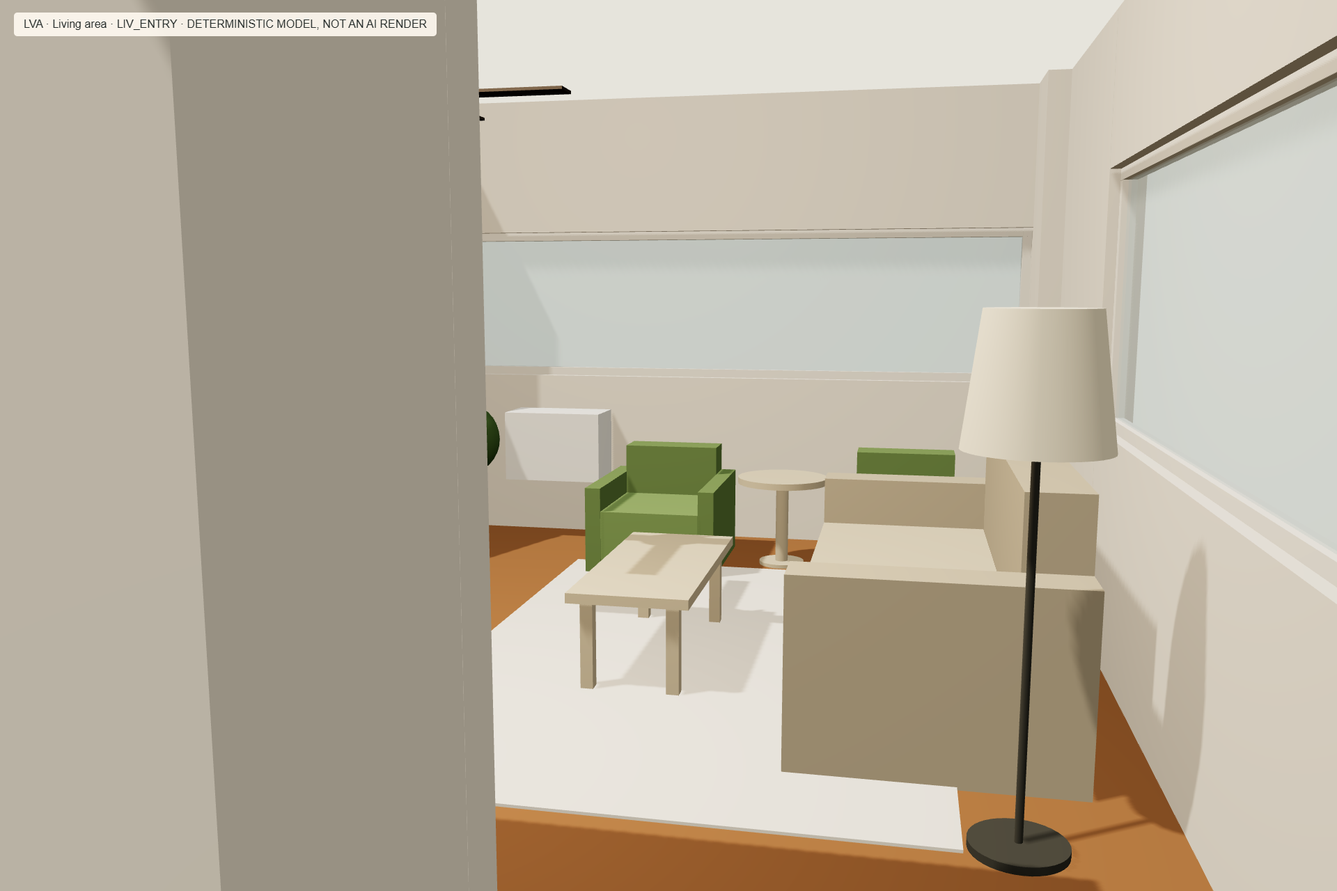
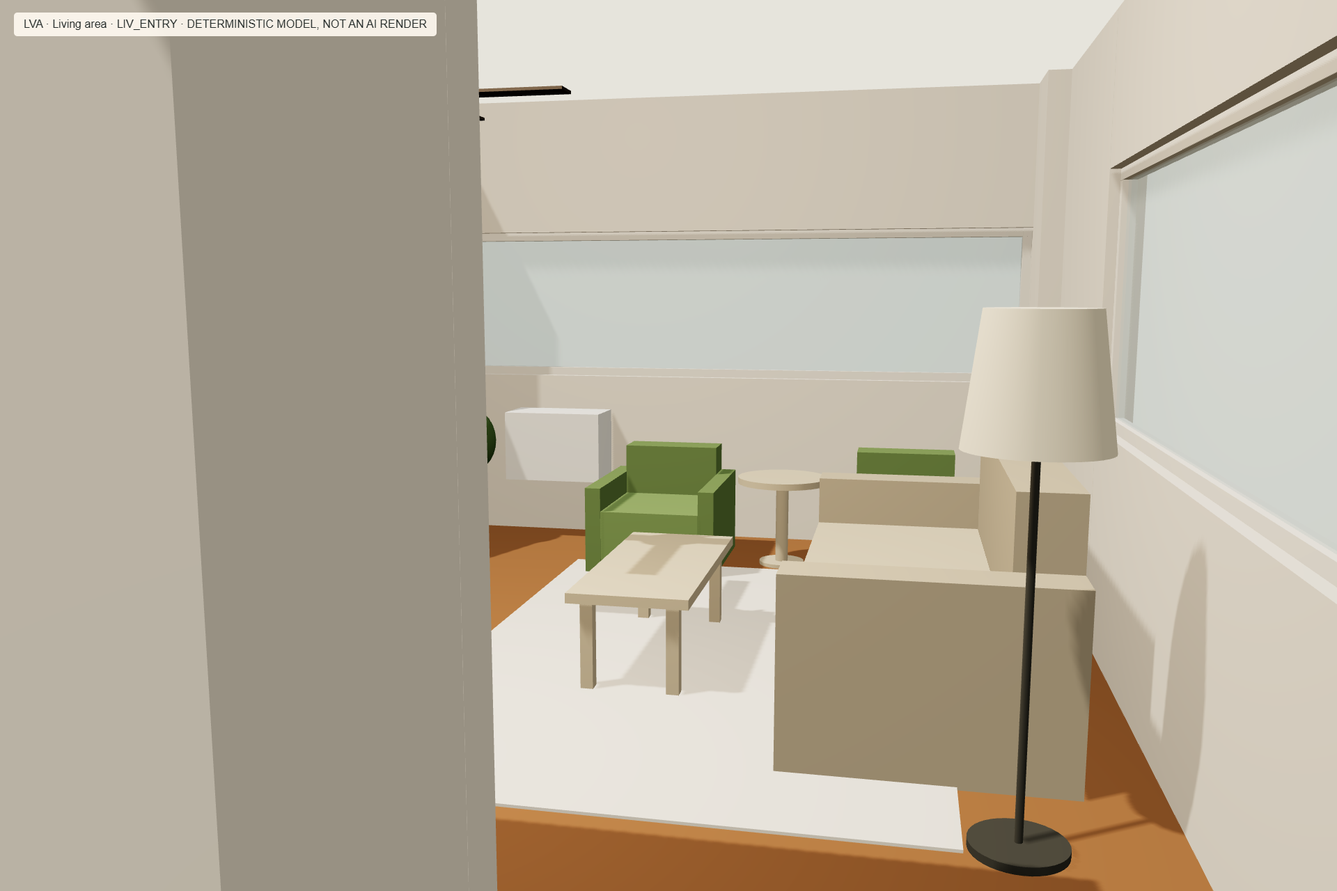
feat(gallery): Show the moved living A/B/C views as model views
Ivan's clearance fix (29 Oct) moved the LVA sofa and plant, the LVB sofa, ottoman, floor lamp
and coffee table, and the LVC east 2-seater (Ivan#30 options.json). The two renders still live,
LVA Hallway arch and LVB Window corner, predate the move, so they give way to their model views,
captioned render pending. 11 of 12 model views and the three plans are rebuilt; every design now
reads "Model views only, renders pending" with a Layout (29 Oct) note giving the moves in mm.

diff --git a/liv/index.html b/liv/index.html
@@ -3,7 +3,7 @@
 <main id="main"><div class="page-intro" id="top"><p class="eyebrow">Three directions · One fixed room · 23 October 2026</p><h1>Unit 408 living: three directions (A, B, C)</h1><p class="overview">Three living directions for Unit 408, each with its own seating layout, so Ivan chooses a design rather than a plan: A Linen Daylight (a classic 3 + 1 + 1 in ivory fabric, woven linen chairs and light oak), B Teal and Ochre (a teal sofa with an ottoman chaise, an ochre tub chair, walnut and a cream-and-denim rug) and C Charcoal and Brass (two charcoal 2-seaters in an L with brass, marble and glass). Fixed in all three: the honey-amber parquet, Davies Beige blackout and voile curtains full length on both windows, the existing window AC with its front kept clear, the ceiling fan, and a 75 in TV on an 1800 x 400 console on the TV wall. Nothing in the living is site-measured yet: the room file carries assumed heights and positions (ASSUMED.md) and every plan is a conditional fit on them.</p><p class="intro-note">A comparison for one chosen scheme. Quantities and budgets apply to that scheme. Star (☆) any piece in the schedules to collect it under <a href="#picks">Picks</a>.</p></div><div class="scheme-choices"><a class="scheme-choice" href="#scheme-lva"><span class="choice-top"><span>Direction LVA</span><span class="swatches" aria-label="Scheme palette"><i style="background:#cfc2a8" title="#cfc2a8"></i><i style="background:#7f9a5e" title="#7f9a5e"></i><i style="background:#f3eee4" title="#f3eee4"></i></span></span><h2>Linen Daylight</h2><span class="choice-range">₱182,000–₱206,000</span><span class="choice-bottom">Planning range <span aria-hidden="true">↗</span></span></a><a class="scheme-choice" href="#scheme-lvb"><span class="choice-top"><span>Direction LVB</span><span class="swatches" aria-label="Scheme palette"><i style="background:#1f6f78" title="#1f6f78"></i><i style="background:#c9972b" title="#c9972b"></i><i style="background:#f1ebdd" title="#f1ebdd"></i></span></span><h2>Teal and Ochre</h2><span class="choice-range">₱232,000–₱256,000</span><span class="choice-bottom">Planning range <span aria-hidden="true">↗</span></span></a><a class="scheme-choice" href="#scheme-lvc"><span class="choice-top"><span>Direction LVC</span><span class="swatches" aria-label="Scheme palette"><i style="background:#3b3b3f" title="#3b3b3f"></i><i style="background:#b08a3c" title="#b08a3c"></i><i style="background:#e3e1dc" title="#e3e1dc"></i></span></span><h2>Charcoal and Brass</h2><span class="choice-range">₱320,000–₱345,000</span><span class="choice-bottom">Planning range <span aria-hidden="true">↗</span></span></a></div>
 <section class="brief-section" id="brief" aria-labelledby="brief-title"><div><p class="eyebrow">The fixed brief</p><h2 id="brief-title">What every scheme must satisfy</h2></div><ol><li><span>01</span><p>All prices assume new purchases. Three distinct sets of visible furniture, lighting, rugs, textiles and decor; no model or family repeats across the schemes or the parallel sets.</p></li><li><span>02</span><p>Every piece fits the measured room with clear walkways and door swings; plans use published dimensions and flag the rest.</p></li><li><span>03</span><p>Seating, tables and storage are real catalogue products with a supplier photo, price and source link.</p></li></ol></section>
 <section class="scheme-section" id="scheme-lva" aria-labelledby="heading-LVA" data-scheme="LVA"><div class="scheme-heading"><div><p class="eyebrow">Direction LVA <span class="swatches" aria-hidden="true"><i style="background:#cfc2a8" title="#cfc2a8"></i><i style="background:#7f9a5e" title="#7f9a5e"></i><i style="background:#f3eee4" title="#f3eee4"></i></span></p><h2 id="heading-LVA">Linen Daylight</h2><p class="rationale">ivory linen-look seating and cane in a daylight room, pale timber, one soft green: a classic 3 + 1 + 1 around a rectangular table</p></div><div class="scheme-budget"><span>Planning range</span><strong>₱182,000–₱206,000</strong><small>₱150,220.10 priced · 0 quotes open</small></div></div>
-<div class="room-gallery"><figure class="media "><a href="assets/LVA-render-liv_arch.png" class="image-link" data-lightbox data-caption="Living room · arch · AI style interpretation" aria-label="Enlarge: Linen Daylight: AI style render of the living room, arch view, painted over the dimension-led model view"><img src="assets/LVA-render-liv_arch.png" alt="Linen Daylight: AI style render of the living room, arch view, painted over the dimension-led model view" loading="lazy" decoding="async"><span class="expand-label" aria-hidden="true">View larger ↗</span></a><figcaption><span>Style render</span>Living room · arch · AI style interpretation</figcaption></figure></div><p class="visual-key">Style renders are AI images (Codex image generation, sketch-to-render) painted over the dimension-led model views below, with the original parquet photo and the supplier product photos as references: a style interpretation of each scheme, not a dimension certification; check every piece against the schedule.</p><div class="room-gallery"><figure class="media "><a href="assets/LVA-room-liv_main.png" class="image-link" data-lightbox data-caption="Living room · main · model view, render pending" aria-label="Enlarge: Linen Daylight: deterministic model view of the living room, main view, proxy forms in the Unit 408 shell; the AI render is pending"><img src="assets/LVA-room-liv_main.png" alt="Linen Daylight: deterministic model view of the living room, main view, proxy forms in the Unit 408 shell; the AI render is pending" loading="lazy" decoding="async"><span class="expand-label" aria-hidden="true">View larger ↗</span></a><figcaption><span>Model view · render pending</span>Living room · main</figcaption></figure><figure class="media "><a href="assets/LVA-room-liv_opposite.png" class="image-link" data-lightbox data-caption="Living room · opposite · model view, render pending" aria-label="Enlarge: Linen Daylight: deterministic model view of the living room, opposite view, proxy forms in the Unit 408 shell; the AI render is pending"><img src="assets/LVA-room-liv_opposite.png" alt="Linen Daylight: deterministic model view of the living room, opposite view, proxy forms in the Unit 408 shell; the AI render is pending" loading="lazy" decoding="async"><span class="expand-label" aria-hidden="true">View larger ↗</span></a><figcaption><span>Model view · render pending</span>Living room · opposite</figcaption></figure><figure class="media "><a href="assets/LVA-room-liv_entry.png" class="image-link" data-lightbox data-caption="Living room · entry · model view, render pending" aria-label="Enlarge: Linen Daylight: deterministic model view of the living room, entry view, proxy forms in the Unit 408 shell; the AI render is pending"><img src="assets/LVA-room-liv_entry.png" alt="Linen Daylight: deterministic model view of the living room, entry view, proxy forms in the Unit 408 shell; the AI render is pending" loading="lazy" decoding="async"><span class="expand-label" aria-hidden="true">View larger ↗</span></a><figcaption><span>Model view · render pending</span>Living room · entry</figcaption></figure><figure class="media "><a href="assets/LVA-room-liv_arch.png" class="image-link" data-lightbox data-caption="Living room · arch" aria-label="Enlarge: Linen Daylight: deterministic model view of the living room, arch view, proxy forms in the Unit 408 shell"><img src="assets/LVA-room-liv_arch.png" alt="Linen Daylight: deterministic model view of the living room, arch view, proxy forms in the Unit 408 shell" loading="lazy" decoding="async"><span class="expand-label" aria-hidden="true">View larger ↗</span></a><figcaption><span>Model view</span>Living room · arch</figcaption></figure></div><p class="visual-key">Model views are deterministic Three.js views of the audited Unit 408 shell (parquet, curtains, window, doors, closet, 75 in TV, new split AC) with the selected pieces as proxy forms at published or assumed sizes and the rug and art photos mapped to their rectangles; not AI renders, finishes approximate.</p><p class="visual-key">The reference board contains supplier product photographs.</p><div class="reference-gallery"><figure class="media reference-board"><a href="assets/LVA-products.png" class="image-link" data-lightbox data-caption="Selected retail pieces" aria-label="Enlarge: Linen Daylight: actual supplier product photo board"><img src="assets/LVA-products.png" alt="Linen Daylight: actual supplier product photo board" loading="lazy" decoding="async"><span class="expand-label" aria-hidden="true">View larger ↗</span></a><figcaption><span>Supplier photographs</span>Selected retail pieces</figcaption></figure><figure class="media reference-plan"><a href="assets/PLAN-LVA-LIV.png" class="image-link" data-lightbox data-caption="Living room · conditional furniture fit" aria-label="Enlarge: Linen Daylight: living room planning diagram"><img src="assets/PLAN-LVA-LIV.png" alt="Linen Daylight: living room planning diagram" loading="lazy" decoding="async"><span class="expand-label" aria-hidden="true">View larger ↗</span></a><figcaption><span>Fit screening</span>Living room · conditional furniture fit</figcaption></figure></div><div class="fit-notes"><h3>Space &amp; fit</h3><ul><li>Seating option A: 3-seater along the south window facing the TV, two woven armchairs along the east window south of the window AC with a side table between them, rug 3400 x 2400 under the group.</li><li>Curtain lines kept: 250 mm behind the sofa and the chairs at both windows; the floor in front of the window AC stays clear.</li><li>Conditional fit: the living is not site-measured; ceiling, sills, heads, door heights and the fan and AC positions are assumed (see ASSUMED.md) and every plan and view depends on them until taped.</li></ul></div><details class="schedule" open><summary><span><span class="eyebrow">Every scheduled item</span><span class="schedule-heading">Direction LVA · selected pieces</span></span><span class="schedule-count">9 rows<span class="disclosure-mark" aria-hidden="true">−</span></span></summary>
+<div class="room-gallery"></div><p class="visual-key">Style renders are AI images (Codex image generation, sketch-to-render) painted over the dimension-led model views below, with the original parquet photo and the supplier product photos as references: a style interpretation of each scheme, not a dimension certification; check every piece against the schedule.</p><div class="room-gallery"><figure class="media "><a href="assets/LVA-room-liv_main.png" class="image-link" data-lightbox data-caption="Living room · main · model view, render pending" aria-label="Enlarge: Linen Daylight: deterministic model view of the living room, main view, proxy forms in the Unit 408 shell; the AI render is pending"><img src="assets/LVA-room-liv_main.png" alt="Linen Daylight: deterministic model view of the living room, main view, proxy forms in the Unit 408 shell; the AI render is pending" loading="lazy" decoding="async"><span class="expand-label" aria-hidden="true">View larger ↗</span></a><figcaption><span>Model view · render pending</span>Living room · main</figcaption></figure><figure class="media "><a href="assets/LVA-room-liv_opposite.png" class="image-link" data-lightbox data-caption="Living room · opposite · model view, render pending" aria-label="Enlarge: Linen Daylight: deterministic model view of the living room, opposite view, proxy forms in the Unit 408 shell; the AI render is pending"><img src="assets/LVA-room-liv_opposite.png" alt="Linen Daylight: deterministic model view of the living room, opposite view, proxy forms in the Unit 408 shell; the AI render is pending" loading="lazy" decoding="async"><span class="expand-label" aria-hidden="true">View larger ↗</span></a><figcaption><span>Model view · render pending</span>Living room · opposite</figcaption></figure><figure class="media "><a href="assets/LVA-room-liv_entry.png" class="image-link" data-lightbox data-caption="Living room · entry · model view, render pending" aria-label="Enlarge: Linen Daylight: deterministic model view of the living room, entry view, proxy forms in the Unit 408 shell; the AI render is pending"><img src="assets/LVA-room-liv_entry.png" alt="Linen Daylight: deterministic model view of the living room, entry view, proxy forms in the Unit 408 shell; the AI render is pending" loading="lazy" decoding="async"><span class="expand-label" aria-hidden="true">View larger ↗</span></a><figcaption><span>Model view · render pending</span>Living room · entry</figcaption></figure><figure class="media "><a href="assets/LVA-room-liv_arch.png" class="image-link" data-lightbox data-caption="Living room · arch · model view, render pending" aria-label="Enlarge: Linen Daylight: deterministic model view of the living room, arch view, proxy forms in the Unit 408 shell; the AI render is pending"><img src="assets/LVA-room-liv_arch.png" alt="Linen Daylight: deterministic model view of the living room, arch view, proxy forms in the Unit 408 shell; the AI render is pending" loading="lazy" decoding="async"><span class="expand-label" aria-hidden="true">View larger ↗</span></a><figcaption><span>Model view · render pending</span>Living room · arch</figcaption></figure></div><p class="visual-key">Model views are deterministic Three.js views of the audited Unit 408 shell (parquet, curtains, window, doors, closet, 75 in TV, new split AC) with the selected pieces as proxy forms at published or assumed sizes and the rug and art photos mapped to their rectangles; not AI renders, finishes approximate.</p><p class="visual-key">The reference board contains supplier product photographs.</p><div class="reference-gallery"><figure class="media reference-board"><a href="assets/LVA-products.png" class="image-link" data-lightbox data-caption="Selected retail pieces" aria-label="Enlarge: Linen Daylight: actual supplier product photo board"><img src="assets/LVA-products.png" alt="Linen Daylight: actual supplier product photo board" loading="lazy" decoding="async"><span class="expand-label" aria-hidden="true">View larger ↗</span></a><figcaption><span>Supplier photographs</span>Selected retail pieces</figcaption></figure><figure class="media reference-plan"><a href="assets/PLAN-LVA-LIV.png" class="image-link" data-lightbox data-caption="Living room · conditional furniture fit" aria-label="Enlarge: Linen Daylight: living room planning diagram"><img src="assets/PLAN-LVA-LIV.png" alt="Linen Daylight: living room planning diagram" loading="lazy" decoding="async"><span class="expand-label" aria-hidden="true">View larger ↗</span></a><figcaption><span>Fit screening</span>Living room · conditional furniture fit</figcaption></figure></div><div class="fit-notes"><h3>Space &amp; fit</h3><ul><li>Seating option A: 3-seater along the south window facing the TV, two woven armchairs along the east window south of the window AC with a side table between them, rug 3400 x 2400 under the group.</li><li>Curtain lines kept: 250 mm behind the sofa and the chairs at both windows; the floor in front of the window AC stays clear.</li><li>Conditional fit: the living is not site-measured; ceiling, sills, heads, door heights and the fan and AC positions are assumed (see ASSUMED.md) and every plan and view depends on them until taped.</li></ul></div><details class="schedule" open><summary><span><span class="eyebrow">Every scheduled item</span><span class="schedule-heading">Direction LVA · selected pieces</span></span><span class="schedule-count">9 rows<span class="disclosure-mark" aria-hidden="true">−</span></span></summary>
 <div class="schedule-body"><div class="table-tools"><label>Find a piece<input type="search" data-filter="schedule-LVA" placeholder="Name, SKU, material or status" aria-label="Filter Direction LVA · selected pieces"></label><p data-filter-count="schedule-LVA" aria-live="polite">9 scheduled items</p></div><div class="table-scroll" tabindex="0" role="region" aria-label="Direction LVA · selected pieces item schedule"><table id="schedule-LVA"><thead><tr><th scope="col" class="pick-head"><span aria-hidden="true">☆</span><span class="visually-hidden">Starred</span></th><th scope="col">Piece &amp; exact variant</th><th scope="col">Qty / scheme</th><th scope="col">Unit price</th><th scope="col">Line price</th><th scope="col">Source &amp; fulfillment</th></tr></thead><tbody><tr id="row-LVA-SOFA" data-item-id="LVA-SOFA" data-schemes="LVA" data-line="4195000" data-search="suzy 3-seater sofa sofa blims fine furniture istf0097c beige; sku istf0097c catalogue export 20 oct 2026 | availability available | cebu delivery unconfirmed cool ivory/beige fabric 3-seater with slim tapered timber legs, 2000 x 950, in stock; budget alternate with a softer, less linen texture. alternate: boconcept aarhus 3-seater sofa (php 282,690). width: 2000; depth: 950; height: 920" data-quote="false">
 <td class="pick-cell"><button type="button" class="pick" data-pick="LVA-SOFA" aria-pressed="false" aria-label="Star SUZY 3-SEATER SOFA"><span aria-hidden="true">☆</span></button></td><td><div class="piece"><div><a href="assets/products/LVA-SOFA.webp" class="item-thumb" data-lightbox data-caption="SUZY 3-SEATER SOFA — supplier product photograph" aria-label="Enlarge supplier photograph of SUZY 3-SEATER SOFA"><img src="assets/products/LVA-SOFA.webp" alt="Supplier photograph: SUZY 3-SEATER SOFA" width="64" height="64" loading="lazy" decoding="async"></a></div><div><span class="role">sofa</span><strong class="piece-name">SUZY 3-SEATER SOFA</strong><span class="item-meta">BLIMS Fine Furniture · SKU ISTF0097C</span><span class="variant">Beige; SKU ISTF0097C</span><details class="item-details"><summary>Dimensions &amp; source notes</summary><p><strong>Dimensions (mm):</strong> width: 2000; depth: 950; height: 920</p><p><strong>Notes:</strong> Cool ivory/beige fabric 3-seater with slim tapered timber legs, 2000 x 950, in stock; budget alternate with a softer, less linen texture. Alternate: BoConcept Aarhus 3-seater sofa (PHP 282,690).</p><p><strong>Price basis:</strong> catalogue</p></details></div></div></td>
 <td class="qty">1<small>LVA</small></td><td class="numeric ">₱41,950<small class="price-date">Source price: 2026-10-20</small></td><td class="numeric ">₱41,950</td><td><span class="status conditional">Catalogue export 20 Oct 2026 | availability available | Cebu delivery unconfirmed</span><a class="supplier-link" href="https://blimsfurniture.com.ph/products/suzy-3-seater-sofa" target="_blank" rel="noopener noreferrer">Supplier page ↗</a></td></tr><tr id="row-LVA-ARMCHAIR" data-item-id="LVA-ARMCHAIR" data-schemes="LVA" data-line="3599800" data-search="stockholm 2025 chair armchair ikea 60594786 stockholm 2025 chair, birch veneer; article 60594786 catalogue export 20 oct 2026 | availability available | cebu delivery unconfirmed woven natural linen webbing on a birch frame, 710 x 790: the cane/linen/pale-oak accent in one piece; low lounge chair, buy x2. alternate: mandaue foam alexia accent chair (php 12,200). materials as published: fabric: 100 % linen, 100 % linen, 100 % linen; seat side/ leg: layer-glued wood veneer, birch veneer, clear acrylic lacquer. width: 710; depth: 790; height: 630" data-quote="false">
@@ -23,7 +23,7 @@
 <td class="qty">1<small>LVA</small></td><td class="numeric ">₱11,699.10<small class="price-date">Source price: 2026-10-20</small></td><td class="numeric ">₱11,699.10</td><td><span class="status unavailable">Catalogue export 20 Oct 2026 | availability sold out | Cebu delivery unconfirmed</span><a class="supplier-link" href="https://ourhome.ph/products/flourish-faux-olive-tree" target="_blank" rel="noopener noreferrer">Supplier page ↗</a></td></tr><tr id="row-LVA-ART" data-item-id="LVA-ART" data-schemes="LVA" data-line="2987500" data-search="&quot;off shore&quot; by kim knoll 32&quot;x20&quot; framed wall art print art crate &amp; barrel 568779 &quot;off shore&quot; by kim knoll 32&quot;x20&quot; framed wall art print; single listed configuration; published sku 568779; shopify variant 44253412065496 catalogue export 20 oct 2026 | availability available | cebu delivery unconfirmed soft linen-toned abstract in a light oak frame, 813 x 508; the timber-frame, quiet-landscape brief. alternate: perfect pieces perfect pieces flourishing blooms (php 8,450). materials as published: giclee print on artist paper; wood frame with light oak finish; glass. width: 812.8; depth: 50.8; height: 508" data-quote="false">
 <td class="pick-cell"><button type="button" class="pick" data-pick="LVA-ART" aria-pressed="false" aria-label="Star &quot;Off Shore&quot; by Kim Knoll 32&quot;x20&quot; Framed Wall Art Print"><span aria-hidden="true">☆</span></button></td><td><div class="piece"><div><a href="assets/products/LVA-ART.webp" class="item-thumb" data-lightbox data-caption="&quot;Off Shore&quot; by Kim Knoll 32&quot;x20&quot; Framed Wall Art Print — supplier product photograph" aria-label="Enlarge supplier photograph of &quot;Off Shore&quot; by Kim Knoll 32&quot;x20&quot; Framed Wall Art Print"><img src="assets/products/LVA-ART.webp" alt="Supplier photograph: &quot;Off Shore&quot; by Kim Knoll 32&quot;x20&quot; Framed Wall Art Print" width="64" height="64" loading="lazy" decoding="async"></a></div><div><span class="role">art</span><strong class="piece-name">&quot;Off Shore&quot; by Kim Knoll 32&quot;x20&quot; Framed Wall Art Print</strong><span class="item-meta">Crate &amp; Barrel · SKU 568779</span><span class="variant">&quot;Off Shore&quot; by Kim Knoll 32&quot;x20&quot; Framed Wall Art Print; Single listed configuration; published SKU 568779; Shopify variant 44253412065496</span><details class="item-details"><summary>Dimensions &amp; source notes</summary><p><strong>Dimensions (mm):</strong> width: 812.8; depth: 50.8; height: 508</p><p><strong>Notes:</strong> Soft linen-toned abstract in a light oak frame, 813 x 508; the timber-frame, quiet-landscape brief. Alternate: Perfect Pieces Perfect Pieces Flourishing Blooms (PHP 8,450). Materials as published: Giclee print on artist paper; Wood frame with light oak finish; Glass.</p><p><strong>Price basis:</strong> catalogue</p></details></div></div></td>
 <td class="qty">1<small>LVA</small></td><td class="numeric ">₱29,875<small class="price-date">Source price: 2026-10-20</small></td><td class="numeric ">₱29,875</td><td><span class="status conditional">Catalogue export 20 Oct 2026 | availability available | Cebu delivery unconfirmed</span><a class="supplier-link" href="https://crateandbarrel.com.ph/products/off-shore-by-kim-knoll-32x20-framed-wall-art-print" target="_blank" rel="noopener noreferrer">Supplier page ↗</a></td></tr></tbody></table></div></div></details></section><section class="scheme-section" id="scheme-lvb" aria-labelledby="heading-LVB" data-scheme="LVB"><div class="scheme-heading"><div><p class="eyebrow">Direction LVB <span class="swatches" aria-hidden="true"><i style="background:#1f6f78" title="#1f6f78"></i><i style="background:#c9972b" title="#c9972b"></i><i style="background:#f1ebdd" title="#f1ebdd"></i></span></p><h2 id="heading-LVB">Teal and Ochre</h2><p class="rationale">a teal sofa with an ottoman chaise, one ochre tub chair, walnut and a cream-and-denim rug under a copper arc lamp: a warm evening room without the usual browns</p></div><div class="scheme-budget"><span>Planning range</span><strong>₱232,000–₱256,000</strong><small>₱195,338.50 priced · 0 quotes open</small></div></div>
-<div class="room-gallery"><figure class="media "><a href="assets/LVB-render-liv_opposite.png" class="image-link" data-lightbox data-caption="Living room · opposite · AI style interpretation" aria-label="Enlarge: Teal and Ochre: AI style render of the living room, opposite view, painted over the dimension-led model view"><img src="assets/LVB-render-liv_opposite.png" alt="Teal and Ochre: AI style render of the living room, opposite view, painted over the dimension-led model view" loading="lazy" decoding="async"><span class="expand-label" aria-hidden="true">View larger ↗</span></a><figcaption><span>Style render</span>Living room · opposite · AI style interpretation</figcaption></figure></div><p class="visual-key">Style renders are AI images (Codex image generation, sketch-to-render) painted over the dimension-led model views below, with the original parquet photo and the supplier product photos as references: a style interpretation of each scheme, not a dimension certification; check every piece against the schedule.</p><div class="room-gallery"><figure class="media "><a href="assets/LVB-room-liv_main.png" class="image-link" data-lightbox data-caption="Living room · main · model view, render pending" aria-label="Enlarge: Teal and Ochre: deterministic model view of the living room, main view, proxy forms in the Unit 408 shell; the AI render is pending"><img src="assets/LVB-room-liv_main.png" alt="Teal and Ochre: deterministic model view of the living room, main view, proxy forms in the Unit 408 shell; the AI render is pending" loading="lazy" decoding="async"><span class="expand-label" aria-hidden="true">View larger ↗</span></a><figcaption><span>Model view · render pending</span>Living room · main</figcaption></figure><figure class="media "><a href="assets/LVB-room-liv_opposite.png" class="image-link" data-lightbox data-caption="Living room · opposite" aria-label="Enlarge: Teal and Ochre: deterministic model view of the living room, opposite view, proxy forms in the Unit 408 shell"><img src="assets/LVB-room-liv_opposite.png" alt="Teal and Ochre: deterministic model view of the living room, opposite view, proxy forms in the Unit 408 shell" loading="lazy" decoding="async"><span class="expand-label" aria-hidden="true">View larger ↗</span></a><figcaption><span>Model view</span>Living room · opposite</figcaption></figure><figure class="media "><a href="assets/LVB-room-liv_entry.png" class="image-link" data-lightbox data-caption="Living room · entry · model view, render pending" aria-label="Enlarge: Teal and Ochre: deterministic model view of the living room, entry view, proxy forms in the Unit 408 shell; the AI render is pending"><img src="assets/LVB-room-liv_entry.png" alt="Teal and Ochre: deterministic model view of the living room, entry view, proxy forms in the Unit 408 shell; the AI render is pending" loading="lazy" decoding="async"><span class="expand-label" aria-hidden="true">View larger ↗</span></a><figcaption><span>Model view · render pending</span>Living room · entry</figcaption></figure><figure class="media "><a href="assets/LVB-room-liv_arch.png" class="image-link" data-lightbox data-caption="Living room · arch · model view, render pending" aria-label="Enlarge: Teal and Ochre: deterministic model view of the living room, arch view, proxy forms in the Unit 408 shell; the AI render is pending"><img src="assets/LVB-room-liv_arch.png" alt="Teal and Ochre: deterministic model view of the living room, arch view, proxy forms in the Unit 408 shell; the AI render is pending" loading="lazy" decoding="async"><span class="expand-label" aria-hidden="true">View larger ↗</span></a><figcaption><span>Model view · render pending</span>Living room · arch</figcaption></figure></div><p class="visual-key">Model views are deterministic Three.js views of the audited Unit 408 shell (parquet, curtains, window, doors, closet, 75 in TV, new split AC) with the selected pieces as proxy forms at published or assumed sizes and the rug and art photos mapped to their rectangles; not AI renders, finishes approximate.</p><p class="visual-key">The reference board contains supplier product photographs.</p><div class="reference-gallery"><figure class="media reference-board"><a href="assets/LVB-products.png" class="image-link" data-lightbox data-caption="Selected retail pieces" aria-label="Enlarge: Teal and Ochre: actual supplier product photo board"><img src="assets/LVB-products.png" alt="Teal and Ochre: actual supplier product photo board" loading="lazy" decoding="async"><span class="expand-label" aria-hidden="true">View larger ↗</span></a><figcaption><span>Supplier photographs</span>Selected retail pieces</figcaption></figure><figure class="media reference-plan"><a href="assets/PLAN-LVB-LIV.png" class="image-link" data-lightbox data-caption="Living room · conditional furniture fit" aria-label="Enlarge: Teal and Ochre: living room planning diagram"><img src="assets/PLAN-LVB-LIV.png" alt="Teal and Ochre: living room planning diagram" loading="lazy" decoding="async"><span class="expand-label" aria-hidden="true">View larger ↗</span></a><figcaption><span>Fit screening</span>Living room · conditional furniture fit</figcaption></figure></div><div class="fit-notes"><h3>Space &amp; fit</h3><ul><li>Seating option B: 3-seater along the south window with the ottoman at its east end as the chaise, round walnut coffee table in front of its west half, one tub armchair by the east window south of the window AC.</li><li>The ottoman and sofa are two SKUs, so the layout engine places both; together they read as a sectional with a chaise.</li><li>Conditional fit: the living is not site-measured; ceiling, sills, heads, door heights and the fan and AC positions are assumed (see ASSUMED.md) and every plan and view depends on them until taped.</li></ul></div><details class="schedule" open><summary><span><span class="eyebrow">Every scheduled item</span><span class="schedule-heading">Direction LVB · selected pieces</span></span><span class="schedule-count">8 rows<span class="disclosure-mark" aria-hidden="true">−</span></span></summary>
+<div class="room-gallery"></div><p class="visual-key">Style renders are AI images (Codex image generation, sketch-to-render) painted over the dimension-led model views below, with the original parquet photo and the supplier product photos as references: a style interpretation of each scheme, not a dimension certification; check every piece against the schedule.</p><div class="room-gallery"><figure class="media "><a href="assets/LVB-room-liv_main.png" class="image-link" data-lightbox data-caption="Living room · main · model view, render pending" aria-label="Enlarge: Teal and Ochre: deterministic model view of the living room, main view, proxy forms in the Unit 408 shell; the AI render is pending"><img src="assets/LVB-room-liv_main.png" alt="Teal and Ochre: deterministic model view of the living room, main view, proxy forms in the Unit 408 shell; the AI render is pending" loading="lazy" decoding="async"><span class="expand-label" aria-hidden="true">View larger ↗</span></a><figcaption><span>Model view · render pending</span>Living room · main</figcaption></figure><figure class="media "><a href="assets/LVB-room-liv_opposite.png" class="image-link" data-lightbox data-caption="Living room · opposite · model view, render pending" aria-label="Enlarge: Teal and Ochre: deterministic model view of the living room, opposite view, proxy forms in the Unit 408 shell; the AI render is pending"><img src="assets/LVB-room-liv_opposite.png" alt="Teal and Ochre: deterministic model view of the living room, opposite view, proxy forms in the Unit 408 shell; the AI render is pending" loading="lazy" decoding="async"><span class="expand-label" aria-hidden="true">View larger ↗</span></a><figcaption><span>Model view · render pending</span>Living room · opposite</figcaption></figure><figure class="media "><a href="assets/LVB-room-liv_entry.png" class="image-link" data-lightbox data-caption="Living room · entry · model view, render pending" aria-label="Enlarge: Teal and Ochre: deterministic model view of the living room, entry view, proxy forms in the Unit 408 shell; the AI render is pending"><img src="assets/LVB-room-liv_entry.png" alt="Teal and Ochre: deterministic model view of the living room, entry view, proxy forms in the Unit 408 shell; the AI render is pending" loading="lazy" decoding="async"><span class="expand-label" aria-hidden="true">View larger ↗</span></a><figcaption><span>Model view · render pending</span>Living room · entry</figcaption></figure><figure class="media "><a href="assets/LVB-room-liv_arch.png" class="image-link" data-lightbox data-caption="Living room · arch · model view, render pending" aria-label="Enlarge: Teal and Ochre: deterministic model view of the living room, arch view, proxy forms in the Unit 408 shell; the AI render is pending"><img src="assets/LVB-room-liv_arch.png" alt="Teal and Ochre: deterministic model view of the living room, arch view, proxy forms in the Unit 408 shell; the AI render is pending" loading="lazy" decoding="async"><span class="expand-label" aria-hidden="true">View larger ↗</span></a><figcaption><span>Model view · render pending</span>Living room · arch</figcaption></figure></div><p class="visual-key">Model views are deterministic Three.js views of the audited Unit 408 shell (parquet, curtains, window, doors, closet, 75 in TV, new split AC) with the selected pieces as proxy forms at published or assumed sizes and the rug and art photos mapped to their rectangles; not AI renders, finishes approximate.</p><p class="visual-key">The reference board contains supplier product photographs.</p><div class="reference-gallery"><figure class="media reference-board"><a href="assets/LVB-products.png" class="image-link" data-lightbox data-caption="Selected retail pieces" aria-label="Enlarge: Teal and Ochre: actual supplier product photo board"><img src="assets/LVB-products.png" alt="Teal and Ochre: actual supplier product photo board" loading="lazy" decoding="async"><span class="expand-label" aria-hidden="true">View larger ↗</span></a><figcaption><span>Supplier photographs</span>Selected retail pieces</figcaption></figure><figure class="media reference-plan"><a href="assets/PLAN-LVB-LIV.png" class="image-link" data-lightbox data-caption="Living room · conditional furniture fit" aria-label="Enlarge: Teal and Ochre: living room planning diagram"><img src="assets/PLAN-LVB-LIV.png" alt="Teal and Ochre: living room planning diagram" loading="lazy" decoding="async"><span class="expand-label" aria-hidden="true">View larger ↗</span></a><figcaption><span>Fit screening</span>Living room · conditional furniture fit</figcaption></figure></div><div class="fit-notes"><h3>Space &amp; fit</h3><ul><li>Seating option B: 3-seater along the south window with the ottoman at its east end as the chaise, round walnut coffee table in front of its west half, one tub armchair by the east window south of the window AC.</li><li>The ottoman and sofa are two SKUs, so the layout engine places both; together they read as a sectional with a chaise.</li><li>Conditional fit: the living is not site-measured; ceiling, sills, heads, door heights and the fan and AC positions are assumed (see ASSUMED.md) and every plan and view depends on them until taped.</li></ul></div><details class="schedule" open><summary><span><span class="eyebrow">Every scheduled item</span><span class="schedule-heading">Direction LVB · selected pieces</span></span><span class="schedule-count">8 rows<span class="disclosure-mark" aria-hidden="true">−</span></span></summary>
 <div class="schedule-body"><div class="table-tools"><label>Find a piece<input type="search" data-filter="schedule-LVB" placeholder="Name, SKU, material or status" aria-label="Filter Direction LVB · selected pieces"></label><p data-filter-count="schedule-LVB" aria-live="polite">8 scheduled items</p></div><div class="table-scroll" tabindex="0" role="region" aria-label="Direction LVB · selected pieces item schedule"><table id="schedule-LVB"><thead><tr><th scope="col" class="pick-head"><span aria-hidden="true">☆</span><span class="visually-hidden">Starred</span></th><th scope="col">Piece &amp; exact variant</th><th scope="col">Qty / scheme</th><th scope="col">Unit price</th><th scope="col">Line price</th><th scope="col">Source &amp; fulfillment</th></tr></thead><tbody><tr id="row-LVB-SOFA" data-item-id="LVB-SOFA" data-schemes="LVB" data-line="4130000" data-search="clark 3 seater sofa sofa mandaue foam 133097 fabric belfast light teal (published option; listing photo shows parson light gray) catalogue export 20 oct 2026 | availability catalog listed | cebu delivery unconfirmed straight 3-seater 2604 x 979 ordered in the belfast light teal fabric option (the listing photo shows light gray): pairs with the ottoman as the chaise so no second chaise appears; the catalogue has no straight navy or teal sofa of this size in stock under php 400k. alternate: ikea ektorp sofa with chaise (php 39,999); boconcept carlton sofa (php 410,990). materials as published: frame: plywood panel with gemelina fixed seat cushion: flex foam fixed back cushion: syntex foam &amp; unisoft foam. width: 2604; depth: 979; height: 1060" data-quote="false">
 <td class="pick-cell"><button type="button" class="pick" data-pick="LVB-SOFA" aria-pressed="false" aria-label="Star Clark 3 Seater Sofa"><span aria-hidden="true">☆</span></button></td><td><div class="piece"><div><a href="assets/products/LVB-SOFA.png" class="item-thumb" data-lightbox data-caption="Clark 3 Seater Sofa — supplier product photograph" aria-label="Enlarge supplier photograph of Clark 3 Seater Sofa"><img src="assets/products/LVB-SOFA.png" alt="Supplier photograph: Clark 3 Seater Sofa" width="64" height="64" loading="lazy" decoding="async"></a></div><div><span class="role">sofa</span><strong class="piece-name">Clark 3 Seater Sofa</strong><span class="item-meta">Mandaue Foam · SKU 133097</span><span class="variant">Fabric Belfast Light Teal (published option; listing photo shows Parson Light Gray)</span><details class="item-details"><summary>Dimensions &amp; source notes</summary><p><strong>Dimensions (mm):</strong> width: 2604; depth: 979; height: 1060</p><p><strong>Notes:</strong> Straight 3-seater 2604 x 979 ordered in the Belfast Light Teal fabric option (the listing photo shows Light Gray): pairs with the ottoman as the chaise so no second chaise appears; the catalogue has no straight navy or teal sofa of this size in stock under PHP 400k. Alternate: IKEA EKTORP Sofa with chaise (PHP 39,999); BoConcept Carlton sofa (PHP 410,990). Materials as published: Frame: Plywood panel with Gemelina Fixed Seat Cushion: Flex foam Fixed Back Cushion: Syntex foam &amp; Unisoft foam.</p><p><strong>Price basis:</strong> catalogue</p></details></div></div></td>
 <td class="qty">1<small>LVB</small></td><td class="numeric ">₱41,300<small class="price-date">Source price: 2026-10-20</small></td><td class="numeric ">₱41,300</td><td><span class="status conditional">Catalogue export 20 Oct 2026 | availability catalog listed | Cebu delivery unconfirmed</span><a class="supplier-link" href="https://mandauefoam.ph/products/clark-3-seater-sofa" target="_blank" rel="noopener noreferrer">Supplier page ↗</a></td></tr><tr id="row-LVB-OTTOMAN" data-item-id="LVB-OTTOMAN" data-schemes="LVB" data-line="1190000" data-search="ava ottoman with storage ottoman mandaue foam 133067 carbon (published option; listing photo shows parson light gray) catalogue export 20 oct 2026 | availability catalog listed | cebu delivery unconfirmed square storage ottoman 902 x 902 x 396 in mid grey fabric (supplier label parson light gray, carbon is a published option, so confirm the colour); budget alternate, not a true dark grey. alternate: boconcept carlton footstool (php 148,490). materials as published: frame: plywood &amp; gemelina wood fixed seat: polyurethane foam fabric: 100% polyester leg: plastic leg. width: 902; depth: 902; height: 396" data-quote="false">
